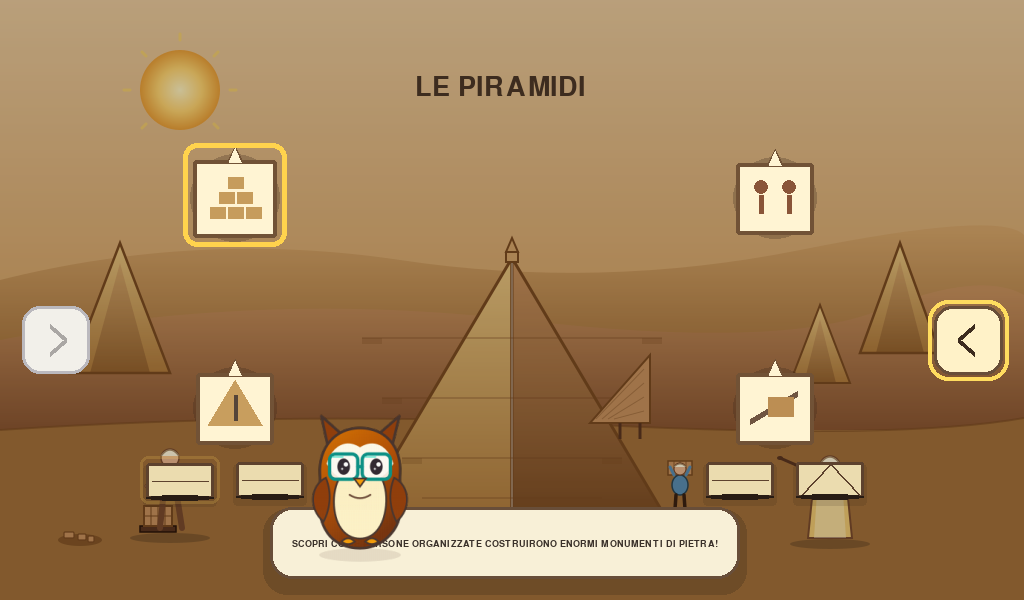
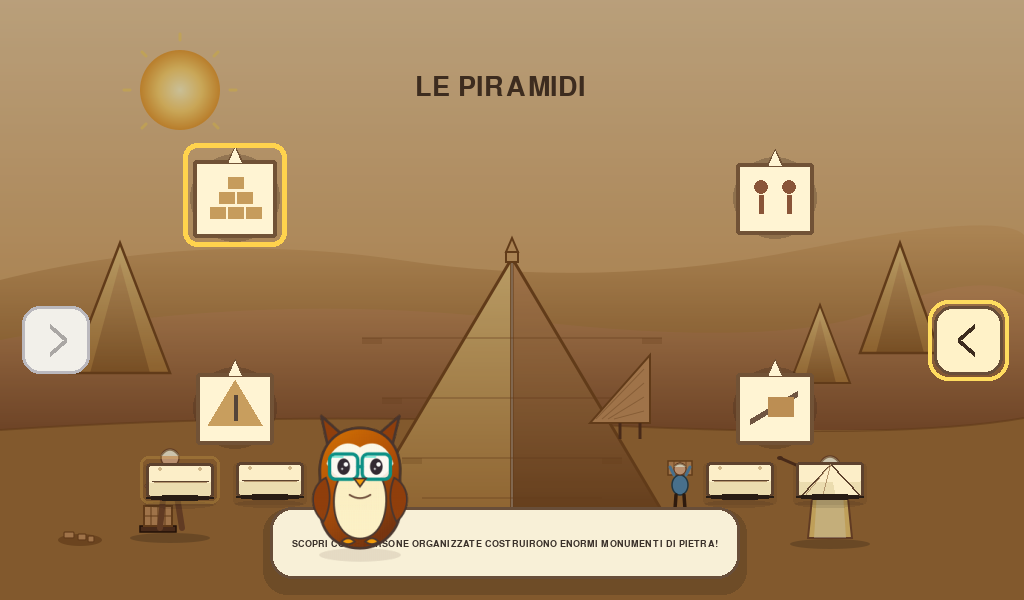
Encyclopedia: iterate history.pyramids - stone bevel, highlight, shadow, facet shading
Iterative polish. Supply blocks now have drop ellipse + outer soft shadow, top bevel highlight, stratification line, pits, capstone facet. Diorama still authored, but blocks more tactile.

Changed region(s): [[0.125, 0.75, 0.3125, 0.81], [0.7812, 0.75, 0.8438, 0.84], [0.6875, 0.75, 0.75, 0.81]]

diff --git a/activities/enciclopedia_greia/pages/pyramids.py b/activities/enciclopedia_greia/pages/pyramids.py
@@ -528,28 +528,53 @@ class PyramidsPage(EncyclopediaPage):
         capstone: bool = False,
         animating: bool = False,
     ) -> None:
-        fill = (240, 218, 165) if placed else (235, 220, 175)
+        # More tactile stone with subtle gradient and chisel marks
+        base = (240, 218, 165) if placed else (235, 220, 175)
         if animating:
-            fill = (250, 230, 185)
+            base = (250, 230, 185)
         edge = (93, 66, 46)
-        # Soft shadow for supply blocks
+        highlight = (252, 238, 200)
+        # Soft drop shadow for supply (grounded)
         if not placed and not animating:
-            shadow = pygame.Surface((rect.width + 6, rect.height + 6), pygame.SRCALPHA)
-            pygame.draw.rect(shadow, (40, 28, 20, 32), shadow.get_rect(), border_radius=4)
+            shadow = pygame.Surface((rect.width + 10, rect.height + 8), pygame.SRCALPHA)
+            pygame.draw.ellipse(shadow, (40, 28, 20, 30), (2, shadow.get_height() - 8, rect.width, 8))
             surface.blit(shadow, (rect.x - 3, rect.y + 2))
-        pygame.draw.rect(surface, fill, rect, border_radius=3 if not capstone else 2)
-        pygame.draw.rect(surface, edge, rect, width=3, border_radius=3 if not capstone else 2)
-        # Stone lines
+            # Outer soft shadow rect
+            s2 = pygame.Surface((rect.width + 6, rect.height + 6), pygame.SRCALPHA)
+            pygame.draw.rect(s2, (40, 28, 20, 22), s2.get_rect(), border_radius=4)
+            surface.blit(s2, (rect.x - 3, rect.y + 1))
+        # Body with subtle top highlight
+        pygame.draw.rect(surface, base, rect, border_radius=4 if not capstone else 3)
+        # Top bevel highlight
+        hl_rect = pygame.Rect(rect.x + 2, rect.y + 2, rect.width - 4, rect.height // 2)
+        pygame.draw.rect(surface, highlight, hl_rect, border_radius=3)
+        pygame.draw.rect(surface, edge, rect, width=3, border_radius=4 if not capstone else 3)
+        # Chisel / stratification lines
         if not capstone:
             mid = rect.y + rect.height // 2
+            pygame.draw.line(surface, (180, 150, 110), (rect.x + 8, mid), (rect.right - 8, mid), 2)
             pygame.draw.line(surface, edge, (rect.x + 6, mid), (rect.right - 6, mid), 1)
+            # Small pits
+            for px in (rect.x + 14, rect.right - 14):
+                pygame.draw.circle(surface, (210, 185, 140), (px, rect.y + 6), 2)
         else:
-            # Capstone facets
+            # Capstone with facet shading
+            pygame.draw.polygon(
+                surface,
+                highlight,
+                [(rect.centerx, rect.top + 3), (rect.right - 5, rect.bottom - 3), (rect.centerx + 6, rect.bottom - 3)],
+            )
             pygame.draw.polygon(
                 surface,
                 (93, 66, 46),
                 [(rect.centerx, rect.top + 2), (rect.right - 4, rect.bottom - 2), (rect.x + 4, rect.bottom - 2)],
                 2,
+            )
+            pygame.draw.polygon(
+                surface,
+                (180, 150, 110),
+                [(rect.centerx, rect.top + 2), (rect.centerx - 8, rect.bottom - 2), (rect.x + 8, rect.bottom - 2)],
+                1,
             )
 
     @staticmethod
